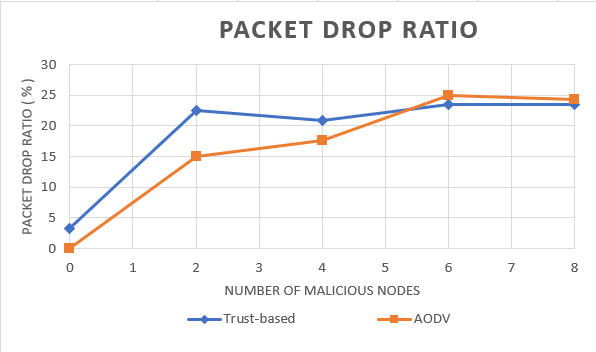
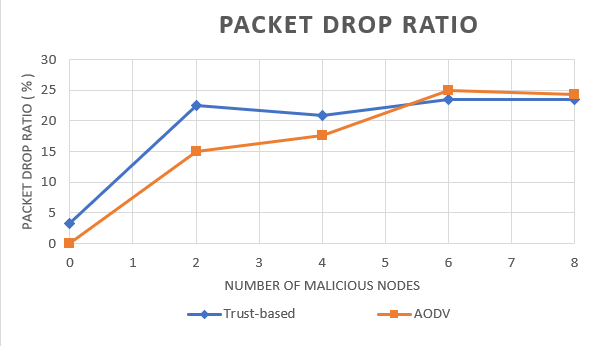
analysis

diff --git a/methodology.html b/methodology.html
@@ -235,6 +235,42 @@
 		</div>
 	</div>
 	
+	<div id="fh5co-project">
+		<div class="container">
+			<div class="row animate-box">
+				<div class="col-md-8 col-md-offset-2 text-center fh5co-heading">
+					<br><br>
+					<h2>Performance Analysis</h2>
+					<p>Performance analysis is implemented in order to compare the trust-based routing protocol with the AODV routing protocol.</p>
+				</div>
+			</div>
+		</div>
+		<div class="container-fluid proj-bottom">
+			<div class="row">
+				<div class="col-md-4 col-sm-6 fh5co-project animate-box" data-animate-effect="fadeIn">
+					<a href="#"><img src="images/drop.png" alt="Free HTML5 Website Template by FreeHTML5.co" class="img-responsive">
+						<!-- <h3>Packet Drop Ratio</h3> -->
+						
+					</a>
+				</div>
+				<div class="col-md-4 col-sm-6 fh5co-project animate-box" data-animate-effect="fadeIn">
+					<a href="#"><img src="images/delay.jpg" alt="Free HTML5 Website Template by FreeHTML5.co" class="img-responsive">
+						<!-- <h3>End to End Delay</h3> -->
+						
+					</a>
+				</div>
+				<div class="col-md-4 col-sm-6 fh5co-project animate-box" data-animate-effect="fadeIn">
+					<a href="#"><img src="images/detection.png" alt="Free HTML5 Website Template by FreeHTML5.co" class="img-responsive">
+						<!-- <h3>Malicious Node Detection Accuracy</h3> -->
+						
+					</a>
+				</div>
+				
+			</div>
+		</div>
+	
+	</div>
+
 
 	<footer id="fh5co-footer" role="contentinfo">
 			<div class="container">
